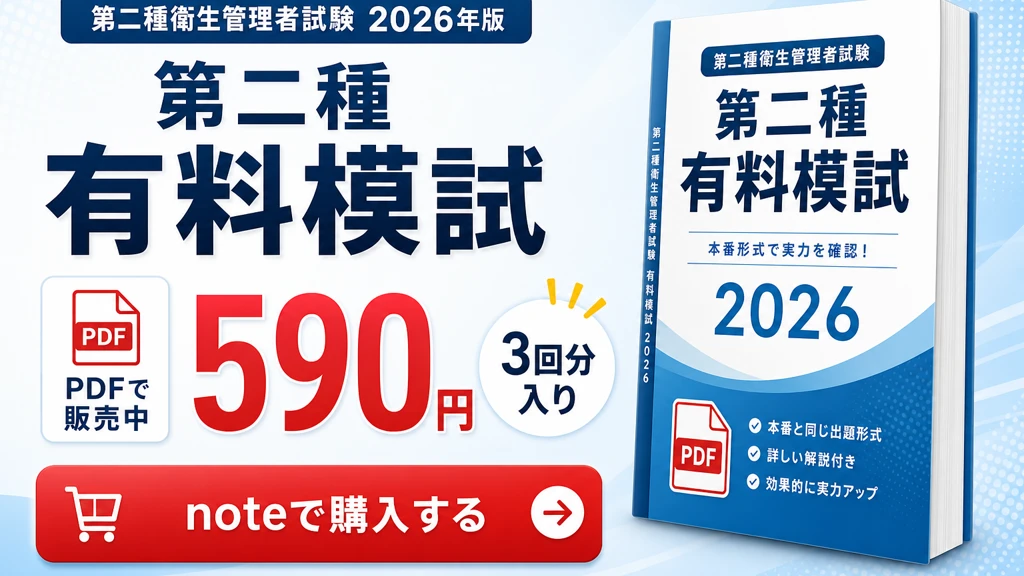
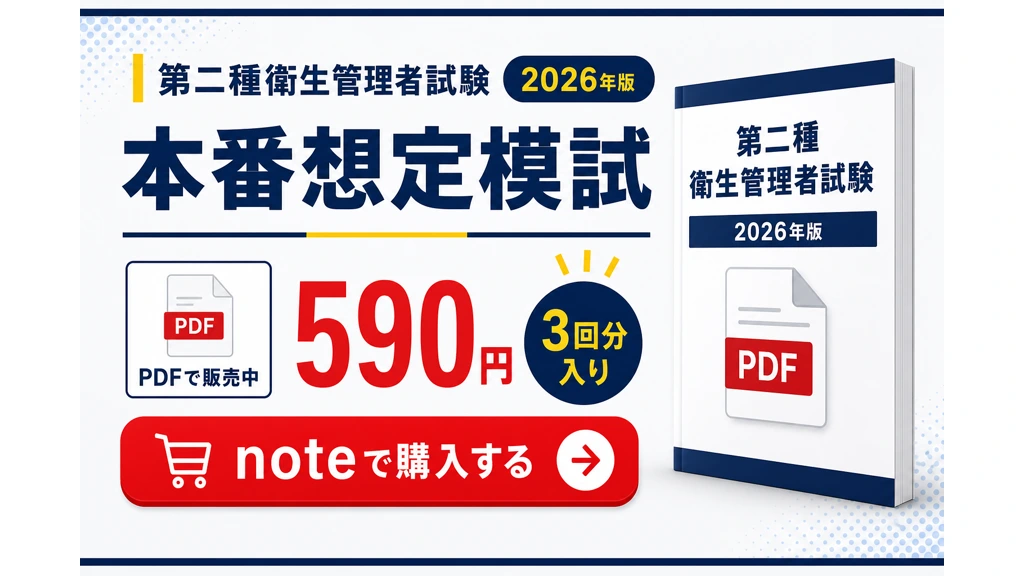
有料模試バナーを本番想定模試デザインへ差し替え
演習開始・結果画面の CTA 画像を新しいバナーに更新する。

diff --git a/site-config.js b/site-config.js
@@ -143,7 +143,7 @@ window.SITE_CONFIG = {
     "scoreMeta": "PDF・3回",
     "scoreLead": "本番形式の本番想定模試",
     "bannerImage": "images/affiliate/eisei2-paid-mock-note-banner.webp",
-    "bannerAlt": "第二種衛生管理者試験 2026年版 有料模試 PDF版 3回分 590円 noteで購入する",
+    "bannerAlt": "第二種衛生管理者試験 2026年版 本番想定模試｜590円｜PDF・3回分入り｜noteで購入する",
     "footnote": "※ note で販売する有料コンテンツ（¥590）です。サイト内の無料演習とは別商品です。"
   },
   "coursePromo": {
